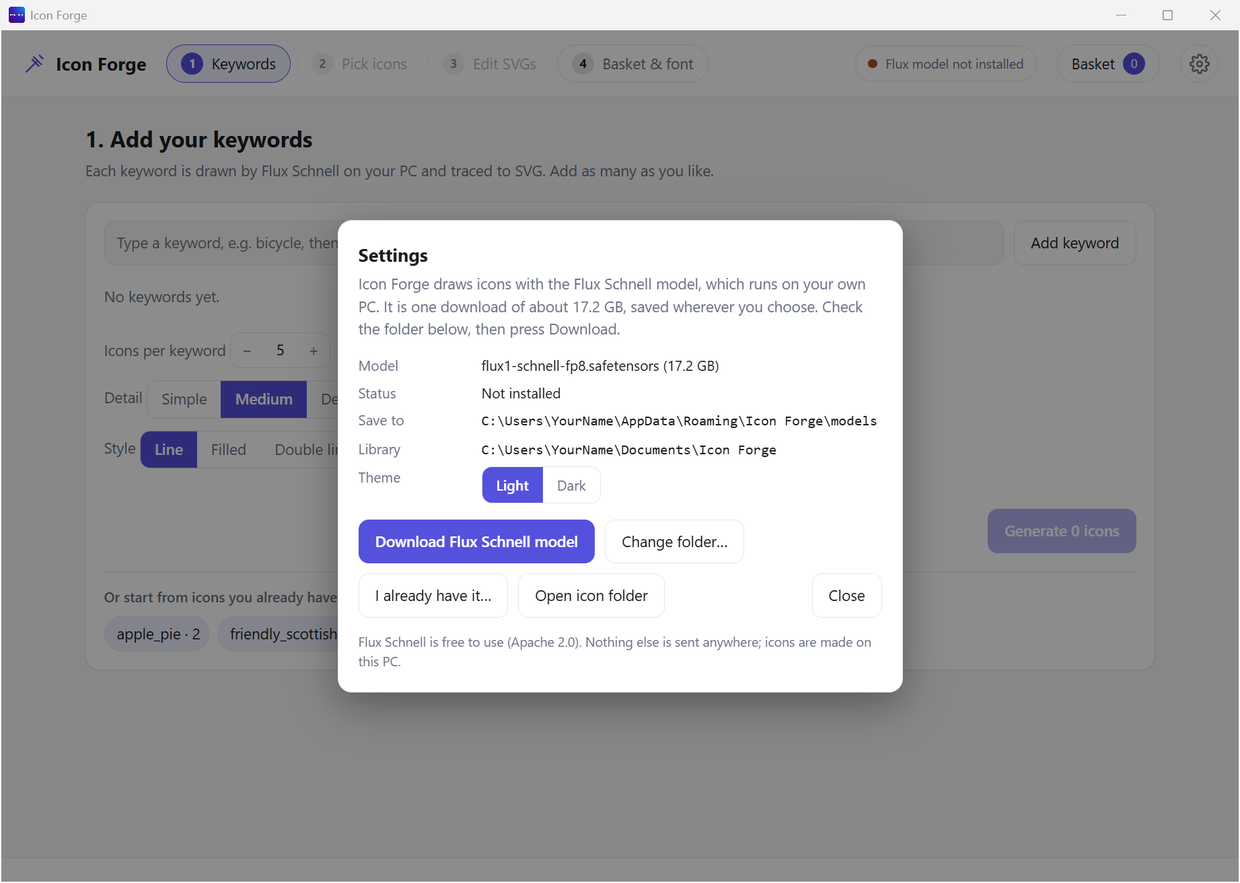
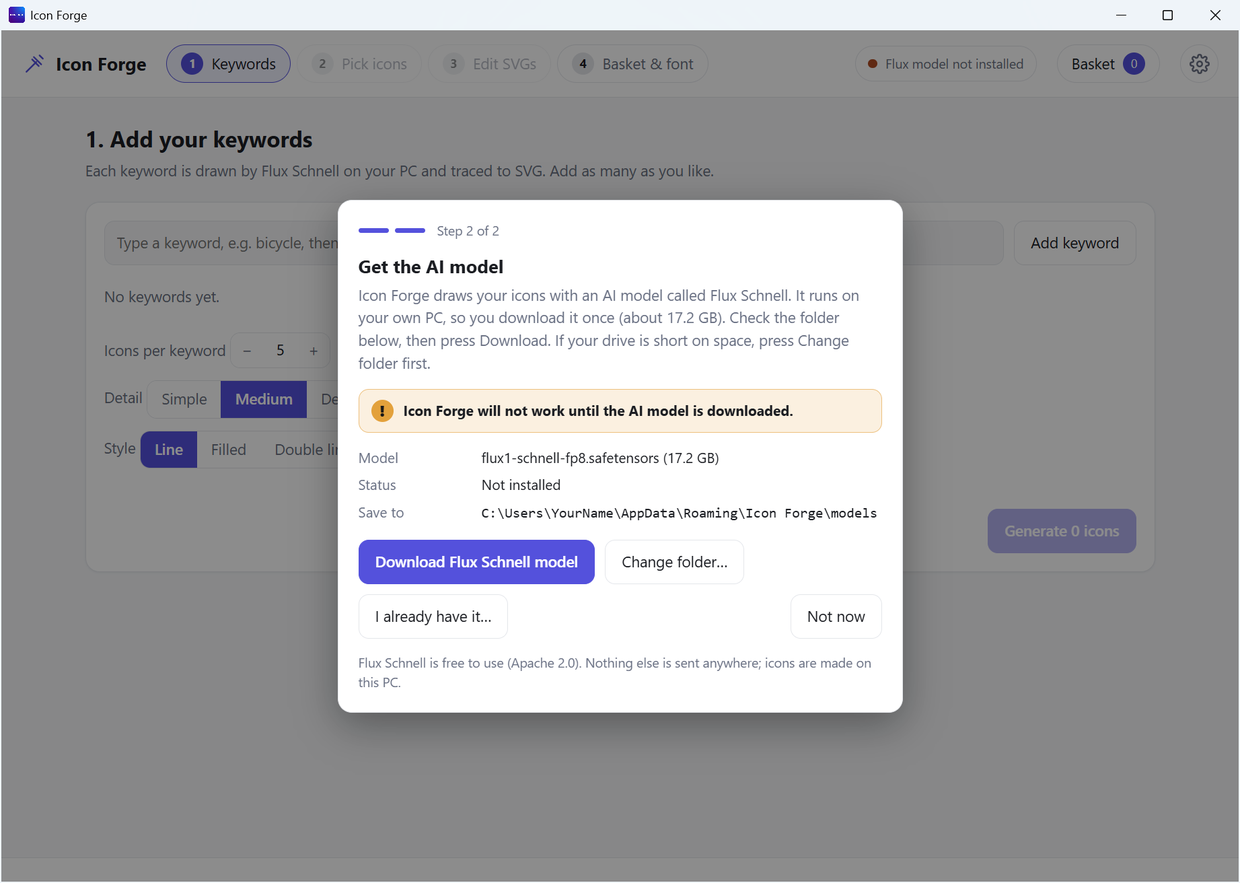
Model dialog warns it will not work without the model; new first-start screenshots; README points to 1.0.1

Changed region(s): [[0.0919, 0.214, 0.7355, 0.8256], [0.6435, 0.581, 0.7048, 0.6116], [0.0306, 0.0, 0.0613, 0.0306]]

diff --git a/public/index.html b/public/index.html
@@ -129,10 +129,12 @@ a.btn { text-decoration:none; display:inline-block; color:inherit; }
 .modalbg[hidden] { display:none; }
 .modal { width:min(560px,100%); max-height:90vh; overflow:auto; background:var(--panel); border:1px solid var(--line); border-radius:14px; padding:20px; box-shadow:0 12px 40px rgba(0,0,0,.35); }
 .modal h2 { margin:0 0 4px; font-size:18px; }
-.steps { display:flex; align-items:center; gap:6px; margin-bottom:12px; color:var(--muted); font-size:13px; }
-.steps i { width:30px; height:5px; border-radius:3px; background:var(--line); }
-.steps i.on { background:var(--accent); }
-.steps span { margin-left:6px; }
+.warnbox { display:flex; align-items:center; gap:10px; margin:14px 0 0; padding:10px 12px; border-radius:10px; background:rgba(245,158,11,.16); border:1px solid rgba(245,158,11,.6); color:var(--ink); font-size:14px; }
+.warnicon { flex:none; width:22px; height:22px; border-radius:50%; background:#f59e0b; color:#1c1917; font-weight:800; font-size:15px; line-height:22px; text-align:center; }
+.wsteps { display:flex; align-items:center; gap:6px; margin-bottom:12px; color:var(--muted); font-size:13px; }
+.wsteps i { width:30px; height:5px; border-radius:3px; background:var(--line); }
+.wsteps i.on { background:var(--accent); }
+.wsteps span { margin-left:6px; }
 .modal .kv { display:grid; grid-template-columns:110px 1fr; gap:6px 12px; margin:14px 0; font-size:14px; }
 .modal .kv span:nth-child(odd) { color:var(--muted); }
 .modal code { word-break:break-all; }
@@ -569,7 +571,8 @@ function viewSettings() {
   const lead = m.ready ? 'Flux Schnell is downloaded and the app is pointed at it. You are ready to make icons.'
     : w ? 'Icon Forge draws your icons with an AI model called Flux Schnell. It runs on your own PC, so you download it once (about ' + fmtGB(m.size) + '). Check the folder below, then press Download. If your drive is short on space, press Change folder first.'
     : 'Icon Forge draws icons with the Flux Schnell model, which runs on your own PC. It is one download of about ' + fmtGB(m.size) + ', saved wherever you choose. Check the folder below, then press Download.';
-  box.innerHTML = '<div class="modal" role="dialog" aria-label="' + (w ? 'Get the AI model' : 'Settings') + '">' + (w ? stepsHtml(2) : '') + '<h2>' + (w ? 'Get the AI model' : 'Settings') + '</h2><p class="lead" style="margin:0">' + lead + '</p>' +
+  const warn = m.ready ? '' : '<div class="warnbox" role="alert"><span class="warnicon" aria-hidden="true">!</span><b>Icon Forge will not work until the AI model is downloaded.</b></div>';
+  box.innerHTML = '<div class="modal" role="dialog" aria-label="' + (w ? 'Get the AI model' : 'Settings') + '">' + (w ? stepsHtml(2) : '') + '<h2>' + (w ? 'Get the AI model' : 'Settings') + '</h2><p class="lead" style="margin:0">' + lead + '</p>' + warn +
     '<div class="kv"><span>Model</span><span>' + esc(m.name) + ' (' + fmtGB(m.size) + ')</span>' +
     '<span>Status</span><span>' + (m.downloading ? 'Downloading… ' + pct + '%' : m.ready ? '<b style="color:var(--ok)">✓ Ready</b>' : 'Not installed') + '</span>' +
     '<span>' + (m.ready ? 'File' : 'Save to') + '</span><span><code>' + esc(m.ready ? m.path : m.folder) + '</code></span>' +
@@ -590,7 +593,7 @@ function openSettings(on) {
   if (on) { const t = $('#themeask'); t.hidden = true; t.innerHTML = ''; }
   viewSettings(); if (on) pollModel();
 }
-const stepsHtml = n => '<div class="steps"><i class="on"></i><i' + (n === 2 ? ' class="on"' : '') + '></i><span>Step ' + n + ' of 2</span></div>';
+const stepsHtml = n => '<div class="wsteps"><i class="on"></i><i' + (n === 2 ? ' class="on"' : '') + '></i><span>Step ' + n + ' of 2</span></div>';
 let modelTimer = null;
 function pollModel() {
   clearInterval(modelTimer);

diff --git a/README.md b/README.md
@@ -11,7 +11,7 @@ It all happens on your own PC. No account. No cloud.
 
 ## Get it (nothing else to install)
 
-**[Download Icon Forge for Windows](https://github.com/johanpeens/IconForge/releases/download/v1.0.0/Icon-Forge-Setup-1.0.0.exe)** (144 MB)
+**[Download Icon Forge for Windows](https://github.com/johanpeens/IconForge/releases/download/v1.0.1/Icon-Forge-Setup-1.0.1.exe)** (170 MB)
 
 1. **Run the file you downloaded.** If Windows says "Windows protected your PC", click **More info**, then **Run anyway**. (The installer is not signed yet, so Windows warns about every new app.)
 2. **Open Icon Forge.** The installer adds anything your PC is missing (Windows asks once, click **Yes**). No Python, no ComfyUI, no setup.

diff --git a/wiki/First-Start.md b/wiki/First-Start.md
@@ -27,6 +27,7 @@ A purple screen with the Icon Forge icon and name. It shows for about two second
 
 Icon Forge needs the AI model before it can draw. This window tells you what it is and how big it is (17.2 GB).
 
+- An orange box tells you that Icon Forge will not work until the model is downloaded.
 - Press **Download Flux Schnell model** to download it. The bar shows the speed and the time left.
 - Press **Change folder…** first if your drive is short on space.
 - Press **I already have it…** if you have the file already.
